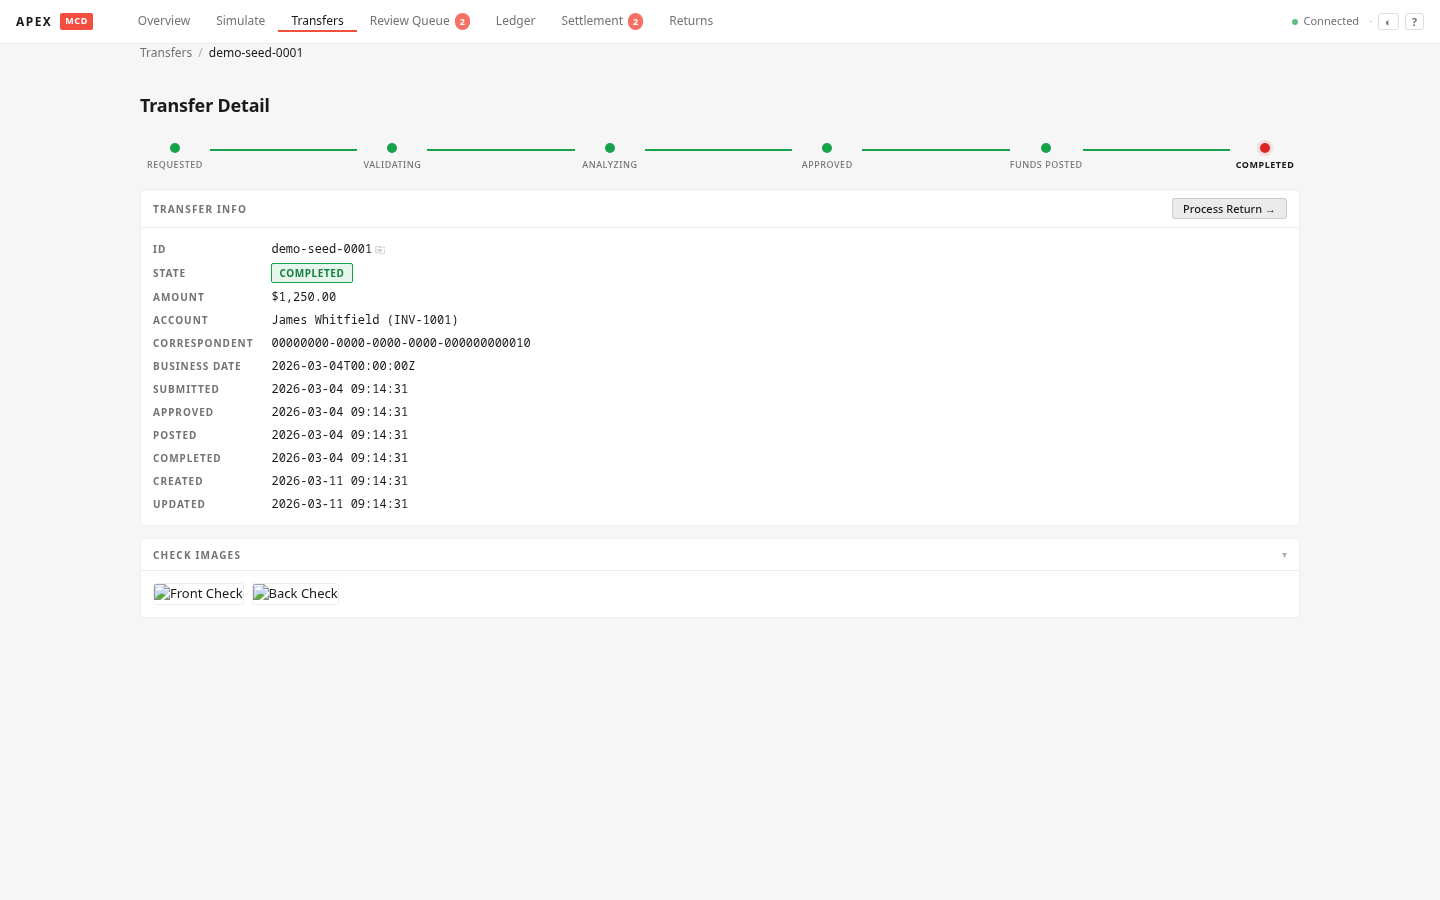
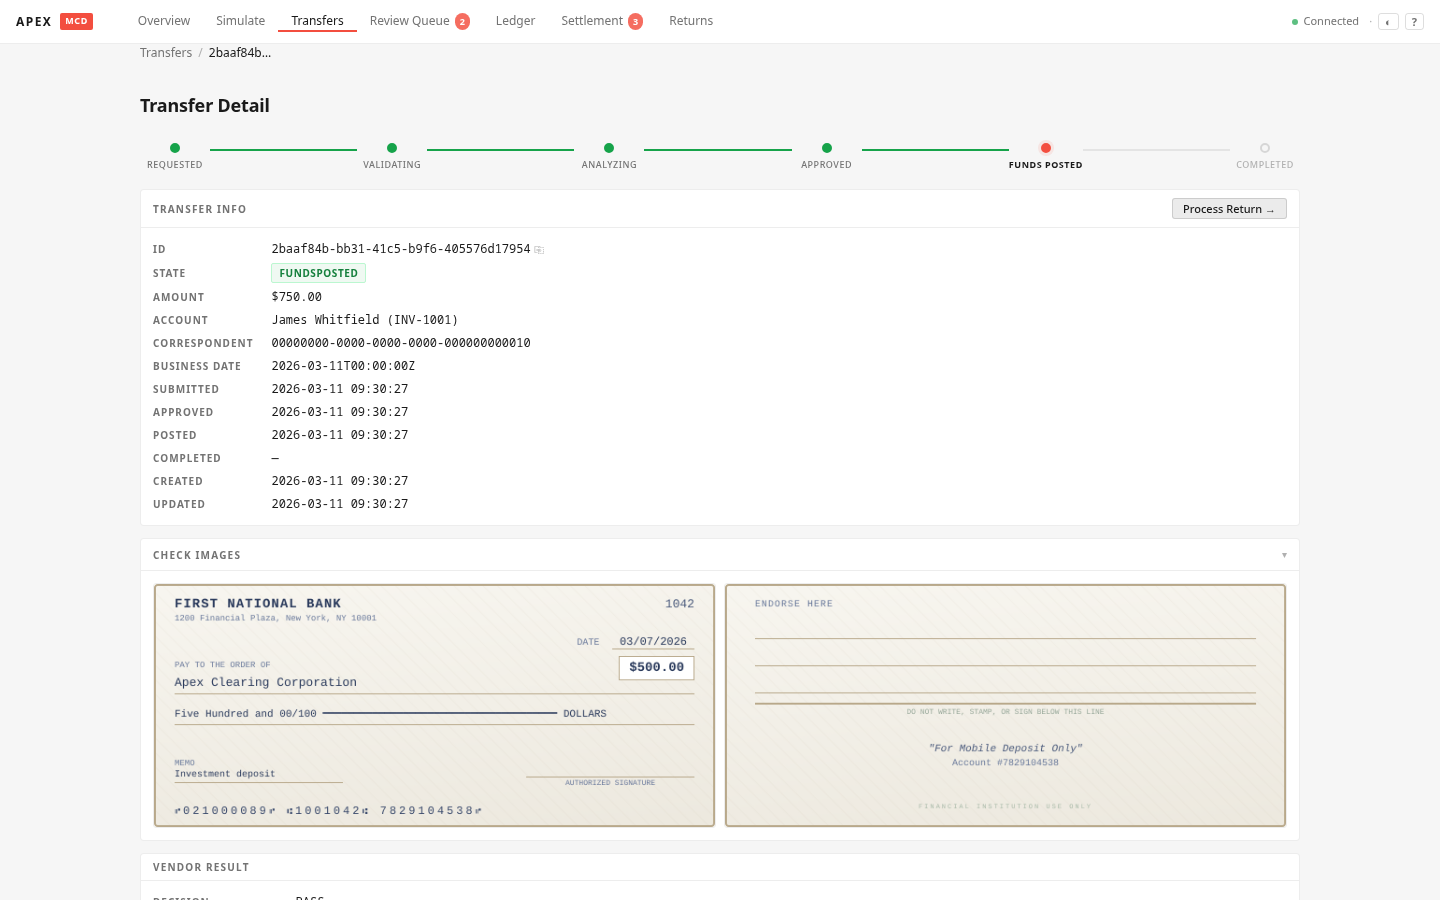
feat: show journal entries in ledger demo + improve screenshots workflow
Demo video (demo-short.spec.ts):
- Updated ledger section to scroll and highlight the new 'Recent journal entries' panel
- Caption shows color coding: deposit posting (green), return reversal (amber), fee (red)

Screenshots (take-screenshots.spec.ts):
- Now submits a real clean_pass deposit before taking screenshots
- Ledger screenshot shows actual journal entries (not just zero balances)
- Transfer detail shows a live FundsPosted transfer with pipeline data
- Uses request.post() multipart with buffer: for check images

diff --git a/tests/e2e/take-screenshots.spec.ts b/tests/e2e/take-screenshots.spec.ts
@@ -17,15 +17,33 @@ test.describe('Screenshot Regenerator', () => {
   test('capture all pages', async ({ page, request }) => {
     fs.mkdirSync(DOCS, { recursive: true });
 
-    // Ensure some data exists
+    // Reset to clean state and seed demo data
+    await request.post('/api/v1/test/reset').catch(() => {});
     await request.post('/api/v1/test/seed').catch(() => {});
+
+    // Submit a real clean-pass deposit so the ledger and transfer detail
+    // show actual journal entries (seed data alone doesn't create them)
+    const frontBuf = fs.readFileSync(path.join(__dirname, 'tests', 'check-front.png'));
+    const backBuf  = fs.readFileSync(path.join(__dirname, 'tests', 'check-back.png'));
+    const depositResp = await request.post('/api/v1/deposits', {
+      multipart: {
+        investorAccountId: 'INV-1001',
+        amount: '750.00',
+        vendorScenario: 'clean_pass',
+        frontImage: { name: 'front.png', mimeType: 'image/png', buffer: frontBuf },
+        backImage:  { name: 'back.png',  mimeType: 'image/png', buffer: backBuf },
+      },
+    }).catch(() => null);
+    const depositJson = depositResp ? await depositResp.json().catch(() => null) : null;
+    const liveTransferId = depositJson?.transferId ?? null;
 
     // Get IDs we'll need
     const depositsResp = await request.get('/api/v1/deposits?limit=50');
     const deposits = (await depositsResp.json()) as any[];
     const completed = deposits.find((d: any) => d.State === 'Completed' || d.State === 'FundsPosted');
     const analyzing = deposits.find((d: any) => d.State === 'Analyzing' && d.ReviewRequired);
-    const transferId = completed?.ID ?? deposits[0]?.ID;
+    // Prefer the live FundsPosted transfer for transfer detail screenshots
+    const transferId = liveTransferId ?? completed?.ID ?? deposits[0]?.ID;
     const reviewId = analyzing?.ID;
 
     // 01 Dashboard

diff --git a/tests/e2e/demo-short.spec.ts b/tests/e2e/demo-short.spec.ts
@@ -767,9 +767,21 @@ test.describe('Professional Demo', () => {
     await page.waitForTimeout(600);
 
     await highlight(page, 'table');
-    await caption(page, 'Ledger — deposit posting, return reversal, and $30 fee — every entry double-sided, sum = 0', 2800);
+    await caption(page, 'Ledger — account balances updated across investor, omnibus, and fee revenue accounts', 2800);
     await clearHighlights(page);
     await clearCaption(page);
+
+    // Scroll to show the recent journal entries panel
+    await page.evaluate(() => window.scrollBy({ top: 400, behavior: 'smooth' }));
+    await page.waitForTimeout(700);
+
+    const journalSection = page.locator('.panel-header-title:has-text("Recent journal")');
+    if (await journalSection.count() > 0) {
+      await highlight(page, '.panel:has(.panel-header-title:has-text("Recent journal")) table');
+      await caption(page, 'Journal entries — deposit posting (green), return reversal (amber), $30 NSF fee (red) — every debit has a matching credit', 2800);
+      await clearHighlights(page);
+      await clearCaption(page);
+    }
 
     await assertVisual(page, 'ledger-entries', [
       critical('Is there a financial ledger table showing entries with amounts and account types?'),
